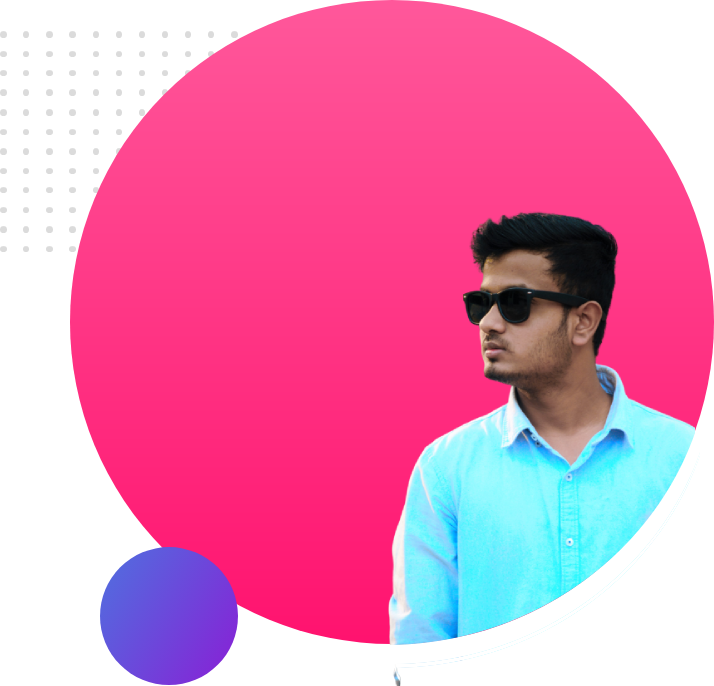
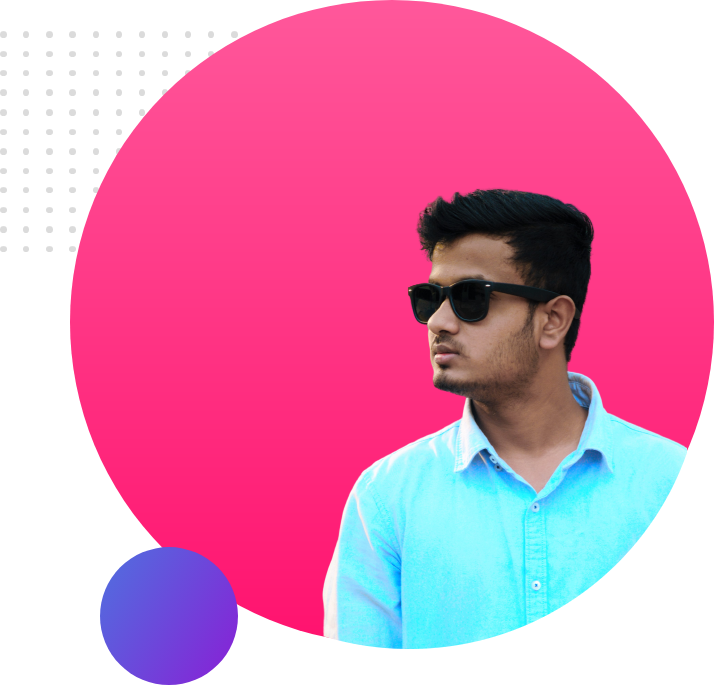
second section added

Changed region(s): [[0.4314, 0.2755, 0.986, 0.949], [0.5546, 0.9796, 0.5854, 1.0]]

diff --git a/index.html b/index.html
@@ -10,6 +10,7 @@
     <link rel="preconnect" href="https://fonts.gstatic.com" crossorigin>
     <link href="https://fonts.googleapis.com/css2?family=Poppins&display=swap" rel="stylesheet">
     <link rel="stylesheet" href="style.css">
+    <link rel="shortcut icon" href="images/sadikkk.png" type="image/x-icon">
 </head>
 
 <body>
@@ -25,7 +26,25 @@
             <a class="link-button" target="_blank" href="https://www.linkedin.com/in/msadikjowel/"><b>HIRE ME</b></a>
         </div>
 
-        <div class="half-width"><img src="images/tour.png" alt="Sadik's picture"></div>
+        <div class="half-width">
+            <img src="images/tour.png" alt="Sadik's picture">
+        </div>
+    </section>
+    <section class="dream-big">
+        <div class="second">
+            <img src="images/sadik.png" alt="Sadik tour picture">
+        </div>
+        <div class="second">
+            <h1>Dream Big</h1>
+            <h3>My Core Skills</h3>
+            <p class="second-paragraph">I'm expert in Video Editing, Web Development and Basic Graphics Design. Also I'm
+                a Trainer of iT sector.
+                I've already trained over 2000+ students in various computer programme. </p>
+            <a class="link-button" target="_blank"
+                href="https://drive.google.com/file/d/1jwG3Ol4cLaO8Cy4HvdbmGscNLtIlvfko/view?usp=sharing">DOWNLOAD
+                RESUME</a>
+        </div>
+
     </section>
 </body>
 

diff --git a/style.css b/style.css
@@ -10,8 +10,9 @@ span{
 }
 section{
     display: flex;
-    padding-left: 7%;
+    padding-left: 6%;
     padding-top: 2%;
+    margin-bottom: 80px;
 }
 .half-width{
     width: 50%;
@@ -31,4 +32,20 @@ section{
 .top-banner{
     background-image: url(images/top-banner.png);
     background-repeat: no-repeat;
+}
+.second{
+    width: 50%;
+}
+.second img{
+    width: 70%;
+    padding-right: 10%;
+}
+.dream-big{
+    background-image: url(images/dream-bg.png);
+    background-repeat: no-repeat;
+    background-position: right;
+}
+.second-paragraph{
+    padding-right: 22%;
+    
 }
